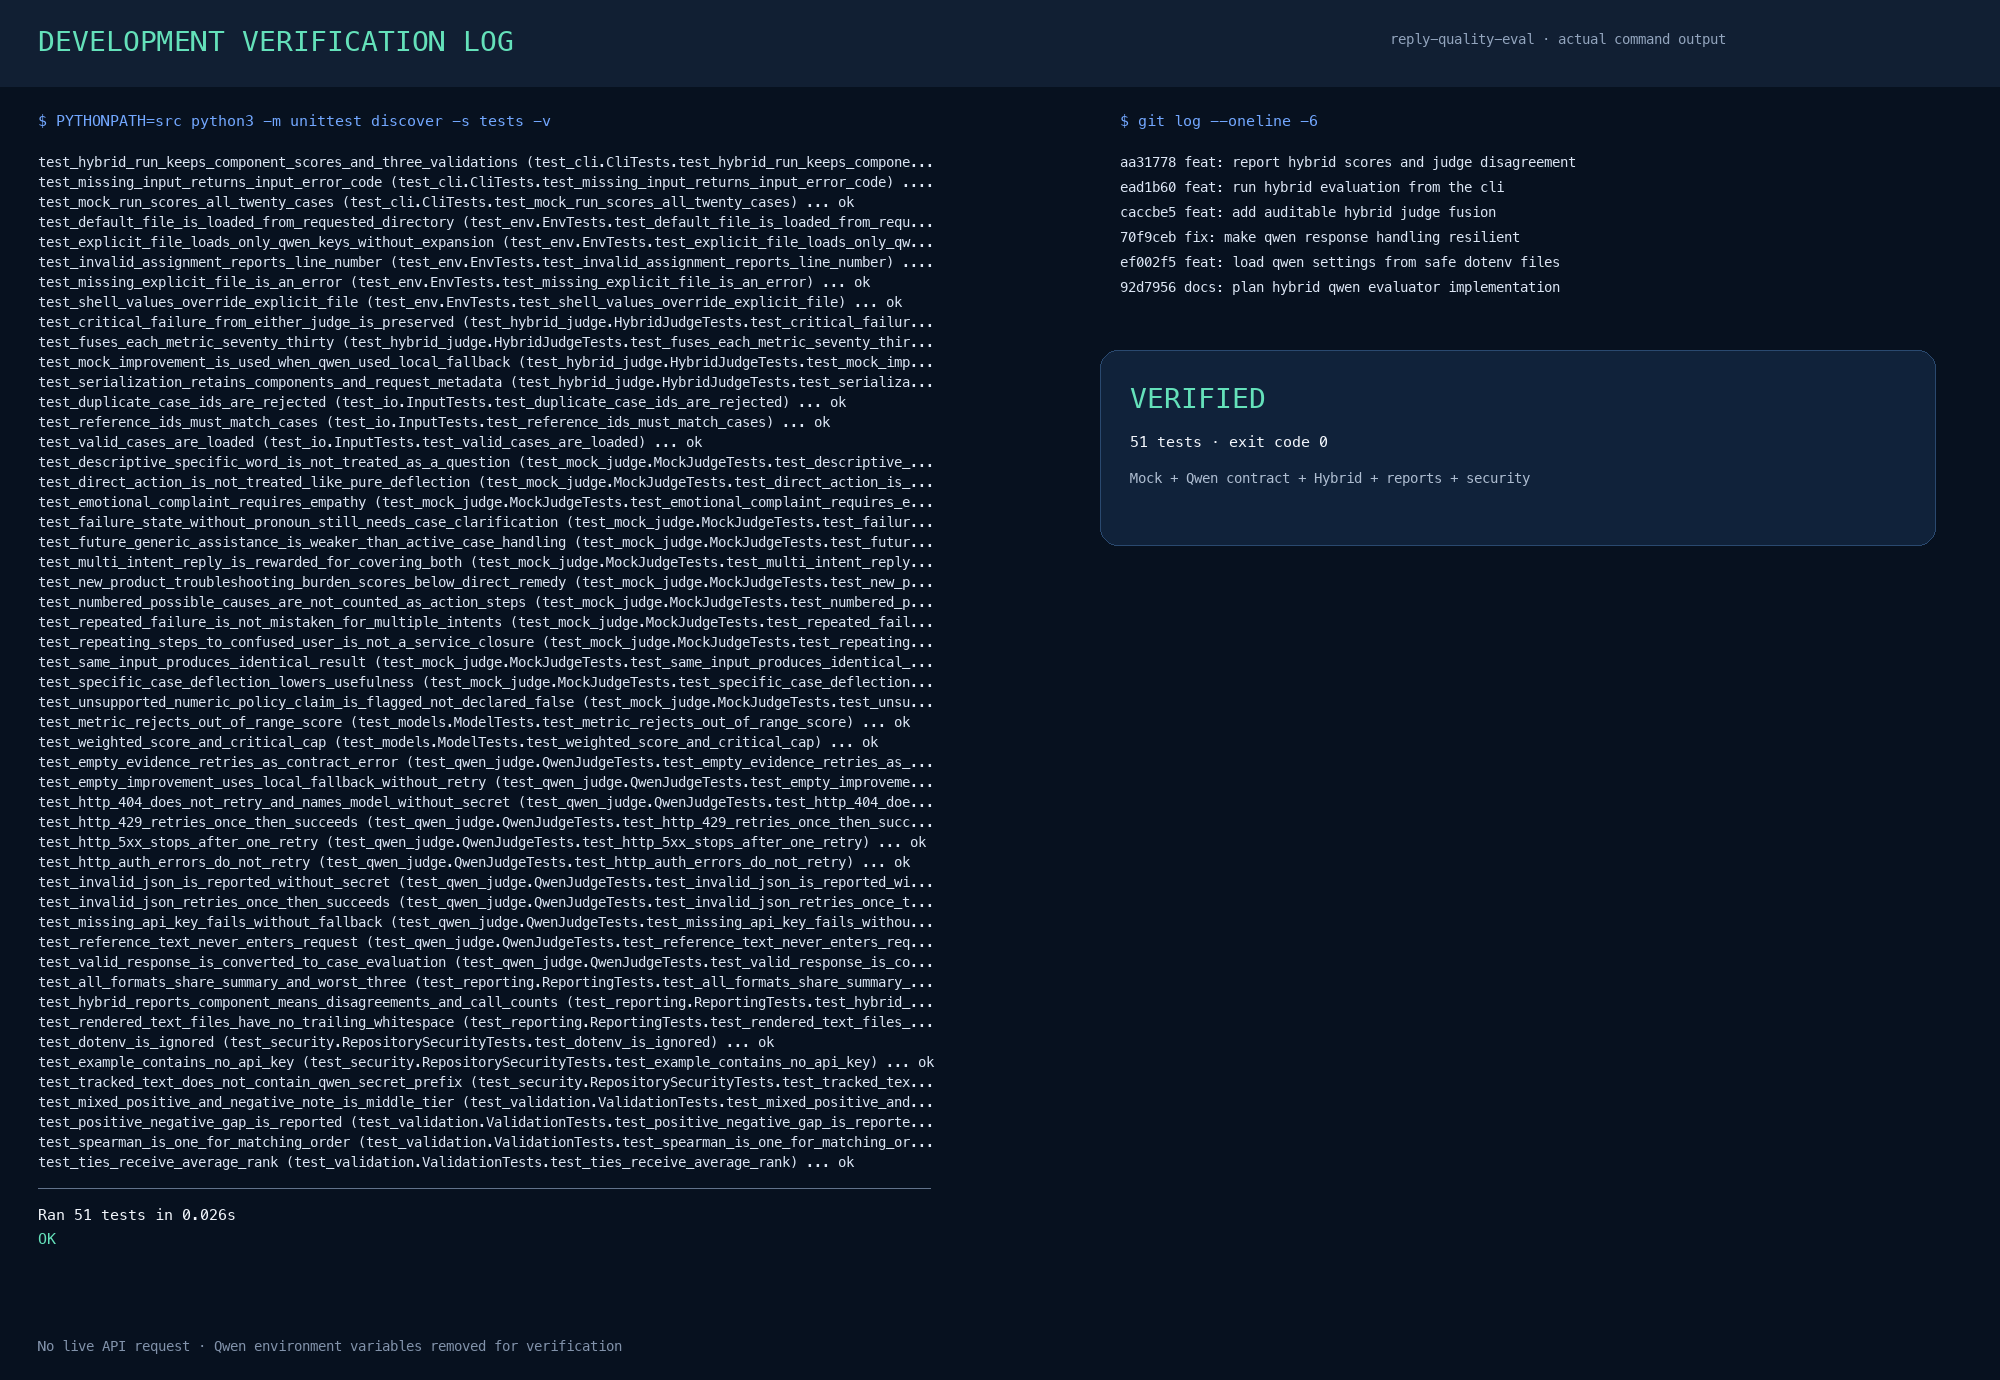
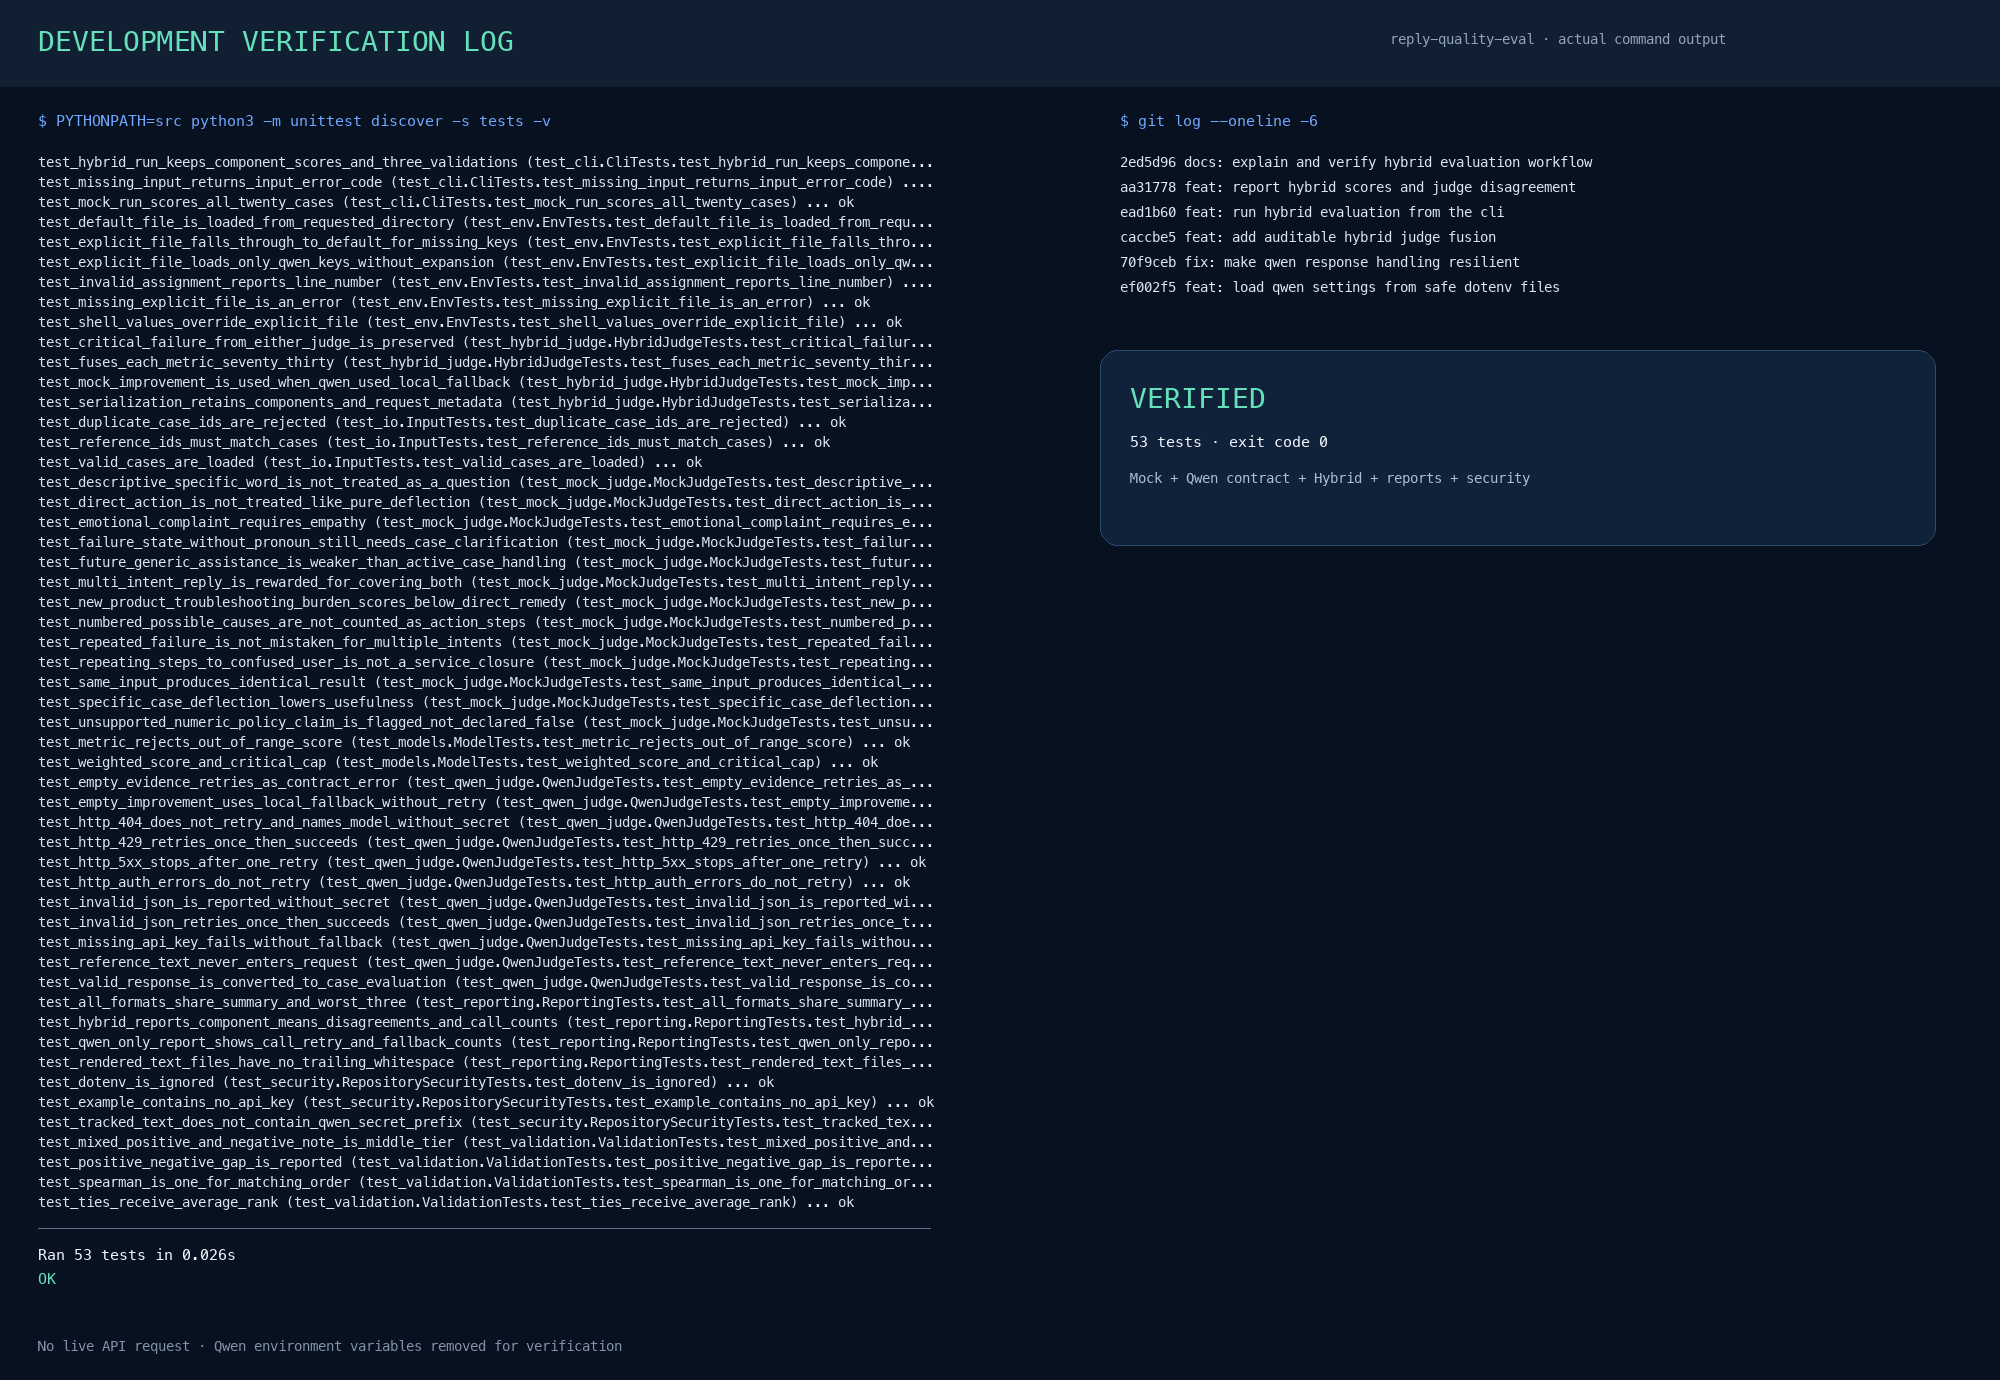
fix: close hybrid evaluation audit gaps

Changed region(s): [[0.0, 0.1558, 0.465, 0.9036], [0.558, 0.0935, 0.775, 0.2181]]

diff --git a/src/reply_eval/reporting.py b/src/reply_eval/reporting.py
@@ -137,6 +137,29 @@ def build_summary(cases: list[dict[str, Any]]) -> dict[str, Any]:
             bool(case.get("local_improvement_fallback", False))
             for case in hybrid_cases
         )
+    else:
+        qwen_cases = [
+            case
+            for case in cases
+            if case.get("evaluator", {}).get("mode") == "qwen"
+        ]
+        if qwen_cases:
+            summary["request_count"] = sum(
+                int(case["evaluator"].get("request_count", 0))
+                for case in qwen_cases
+            )
+            summary["retry_count"] = sum(
+                int(case["evaluator"].get("retry_count", 0))
+                for case in qwen_cases
+            )
+            summary["local_improvement_fallback_count"] = sum(
+                bool(
+                    case["evaluator"].get(
+                        "local_improvement_fallback", False
+                    )
+                )
+                for case in qwen_cases
+            )
     return summary
 
 
@@ -202,6 +225,17 @@ def _markdown_report(payload: dict[str, Any]) -> str:
             lines.append(
                 f"- {item['id']}：最大指标差 {item['max_difference']:.2f} 分"
             )
+    elif "request_count" in summary:
+        lines.extend(
+            [
+                "",
+                "## Qwen 调用审计",
+                "",
+                f"- 请求次数：{summary['request_count']}",
+                f"- 格式/服务重试次数：{summary['retry_count']}",
+                f"- 本地建议降级次数：{summary['local_improvement_fallback_count']}",
+            ]
+        )
     lines.extend(["", "## 最差 3 条", ""])
     for rank, case_id in enumerate(summary["worst_three"], start=1):
         case = by_id[case_id]
@@ -322,12 +356,41 @@ def _html_report(payload: dict[str, Any]) -> str:
 <section class="section overview"><div class="panel"><div class="section-title"><h2>Mock / Qwen / Hybrid</h2><p>组件诊断分</p></div><table>{component_rows}</table></div>
 <div class="panel"><div class="section-title"><h2>最大分歧</h2><p>优先人工复核</p></div><table>{disagreement_rows}</table>
 <p class="audit">请求 {summary['request_count']} · 重试 {summary['retry_count']} · 本地建议降级 {summary['local_improvement_fallback_count']}</p></div></section>"""
+    elif "request_count" in summary:
+        component_html = f"""
+<section class="section"><div class="panel"><div class="section-title"><h2>Qwen 调用审计</h2><p>请求与本地降级</p></div>
+<div class="stats"><div class="stat"><b>{summary['request_count']}</b><span>请求</span></div><div class="stat"><b>{summary['retry_count']}</b><span>重试</span></div><div class="stat"><b>{summary['local_improvement_fallback_count']}</b><span>本地建议降级</span></div></div></div></section>"""
     validation = payload.get("validation", {})
     displayed_validation = (
         validation.get("hybrid", {})
         if isinstance(validation, dict) and "hybrid" in validation
         else validation
     )
+    validation_comparison_html = ""
+    if isinstance(validation, dict) and all(
+        mode in validation for mode in ("mock", "qwen", "hybrid")
+    ):
+        comparison_rows: list[str] = []
+        for mode in ("mock", "qwen", "hybrid"):
+            item = validation[mode]
+            item_match_rate = item.get("issue_tag_match_rate")
+            item_match_text = (
+                f"{item_match_rate:.1%}"
+                if isinstance(item_match_rate, (int, float))
+                else "N/A"
+            )
+            comparison_rows.append(
+                "<tr>"
+                f"<td>{mode.title()}</td>"
+                f"<td>{item.get('spearman_correlation')}</td>"
+                f"<td>{item.get('positive_negative_gap')}</td>"
+                f"<td>{item_match_text}</td>"
+                "</tr>"
+            )
+        validation_rows = "".join(comparison_rows)
+        validation_comparison_html = f"""
+<section class="section"><div class="panel"><div class="section-title"><h2>三路人工参考验证</h2><p>仅验证，不参与评分</p></div>
+<table><tr><td>评估器</td><td>Spearman</td><td>正负档差</td><td>标签匹配率</td></tr>{validation_rows}</table></div></section>"""
     correlation = displayed_validation.get("spearman_correlation", "N/A")
     gap = displayed_validation.get("positive_negative_gap", "N/A")
     match_rate = displayed_validation.get("issue_tag_match_rate")
@@ -351,6 +414,7 @@ def _html_report(payload: dict[str, Any]) -> str:
 <section class="hero"><div><div class="eyebrow">QUALITY EVALUATION · {mode}</div><h1>客服自动回复质量评估</h1><p>{summary['case_count']} 条回复的可解释离线评估。分数衡量意图、服务闭环、事实依据、语气与清晰度；无证据的声明被标为待核实，不直接视为错误。</p></div><div class="score"><strong>{summary['overall_mean']:.1f}</strong><span>OVERALL / 100</span></div></section>
 <section class="section"><div class="section-title"><h2>指标表现</h2><p>均分 · 权重 · 样本范围</p></div><div class="metrics">{''.join(metric_cards)}</div></section>
 {component_html}
+{validation_comparison_html}
 <section class="section overview"><div class="panel"><div class="section-title"><h2>验证摘要</h2></div><div class="stats"><div class="stat"><b>{correlation}</b><span>Spearman 相关</span></div><div class="stat"><b>{gap}</b><span>正负档均分差</span></div><div class="stat"><b>{match_text}</b><span>问题标签匹配率</span></div></div></div><div class="panel"><div class="section-title"><h2>高频风险</h2></div><table>{risk_rows}</table></div></section>
 <section class="section"><div class="section-title"><h2>最差 3 条</h2><p>按综合分升序，同分按 ID</p></div>{''.join(worst_cards)}</section>
 <p class="foot">报告中 unsupported_claim 仅表示当前输入无法验证，需要商品库、订单系统或政策知识库核实。本报告不将人工参考答案用于单条评分。</p>

diff --git a/tests/test_reporting.py b/tests/test_reporting.py
@@ -157,12 +157,16 @@ class ReportingTests(unittest.TestCase):
         validation = {
             mode: {
                 "sample_size": 3,
-                "spearman_correlation": 0.5,
+                "spearman_correlation": correlation,
                 "positive_negative_gap": 10.0,
                 "issue_tag_match_rate": 0.5,
                 "disagreements": [],
             }
-            for mode in ("mock", "qwen", "hybrid")
+            for mode, correlation in (
+                ("mock", 0.1),
+                ("qwen", 0.2),
+                ("hybrid", 0.3),
+            )
         }
         result = RunResult(
             metadata={"judge_mode": "hybrid", "qwen_model": "qwen-test"},
@@ -190,8 +194,63 @@ class ReportingTests(unittest.TestCase):
         self.assertEqual(summary["local_improvement_fallback_count"], 1)
         self.assertIn("Mock / Qwen / Hybrid", markdown)
         self.assertIn("最大分歧", html)
+        self.assertIn("三路人工参考验证", html)
+        self.assertIn("0.1", html)
+        self.assertIn("0.2", html)
+        self.assertIn("0.3", html)
         self.assertIn("mock_overall_score", csv_rows[0])
         self.assertIn("qwen_overall_score", csv_rows[0])
+
+    def test_qwen_only_report_shows_call_retry_and_fallback_counts(self):
+        names = [
+            "intent_accuracy",
+            "usefulness",
+            "groundedness",
+            "tone",
+            "clarity",
+        ]
+        case = {
+            "id": "case_01",
+            "overall_score": 75,
+            "user_question": "q",
+            "auto_reply": "a",
+            "metrics": {
+                name: {"score": 75, "reason": "r", "evidence": ["e"]}
+                for name in names
+            },
+            "risk_tags": [],
+            "critical_fail": False,
+            "critical_reason": None,
+            "improvement": "local fallback",
+            "evaluator": {
+                "mode": "qwen",
+                "model": "qwen-test",
+                "version": "test-1",
+                "request_count": 2,
+                "retry_count": 1,
+                "local_improvement_fallback": True,
+            },
+        }
+        result = RunResult(
+            metadata={"judge_mode": "qwen", "qwen_model": "qwen-test"},
+            summary={},
+            validation={},
+            cases=[case],
+        )
+
+        with tempfile.TemporaryDirectory() as directory:
+            paths = write_reports(result, Path(directory))
+            payload = json.loads(paths["json"].read_text(encoding="utf-8"))
+            markdown = paths["markdown"].read_text(encoding="utf-8")
+            html = paths["html"].read_text(encoding="utf-8")
+
+        self.assertEqual(payload["summary"]["request_count"], 2)
+        self.assertEqual(payload["summary"]["retry_count"], 1)
+        self.assertEqual(
+            payload["summary"]["local_improvement_fallback_count"], 1
+        )
+        self.assertIn("Qwen 调用审计", markdown)
+        self.assertIn("Qwen 调用审计", html)
 
 
 if __name__ == "__main__":

diff --git a/src/reply_eval/env.py b/src/reply_eval/env.py
@@ -18,27 +18,44 @@ def load_qwen_env(
 ) -> Path | None:
     """Load missing Qwen variables from a dotenv file without evaluation."""
 
-    candidate = explicit_path or (cwd or Path.cwd()) / ".env"
-    if not candidate.exists():
-        if explicit_path is not None:
-            raise EnvFileError(f"env file not found: {candidate}")
+    default_path = (cwd or Path.cwd()) / ".env"
+    if explicit_path is not None and not explicit_path.exists():
+        raise EnvFileError(f"env file not found: {explicit_path}")
+
+    candidates: list[Path] = []
+    if explicit_path is not None:
+        candidates.append(explicit_path)
+    if default_path.exists() and all(
+        default_path.absolute() != path.absolute() for path in candidates
+    ):
+        candidates.append(default_path)
+    if not candidates:
         return None
-    try:
-        lines = candidate.read_text(encoding="utf-8").splitlines()
-    except OSError as exc:
-        raise EnvFileError(f"cannot read env file {candidate}: {exc}") from exc
-    for line_number, raw_line in enumerate(lines, start=1):
-        line = raw_line.strip()
-        if not line or line.startswith("#"):
-            continue
-        if "=" not in line:
+
+    for candidate in candidates:
+        try:
+            lines = candidate.read_text(encoding="utf-8").splitlines()
+        except OSError as exc:
             raise EnvFileError(
-                f"invalid env line {line_number} in {candidate}: expected KEY=value"
-            )
-        key, value = (part.strip() for part in line.split("=", 1))
-        if key not in ALLOWED_QWEN_KEYS:
-            continue
-        if len(value) >= 2 and value[0] == value[-1] and value[0] in "\"'":
-            value = value[1:-1]
-        os.environ.setdefault(key, value)
-    return candidate
+                f"cannot read env file {candidate}: {exc}"
+            ) from exc
+        for line_number, raw_line in enumerate(lines, start=1):
+            line = raw_line.strip()
+            if not line or line.startswith("#"):
+                continue
+            if "=" not in line:
+                raise EnvFileError(
+                    f"invalid env line {line_number} in {candidate}: "
+                    "expected KEY=value"
+                )
+            key, value = (part.strip() for part in line.split("=", 1))
+            if key not in ALLOWED_QWEN_KEYS:
+                continue
+            if (
+                len(value) >= 2
+                and value[0] == value[-1]
+                and value[0] in "\"'"
+            ):
+                value = value[1:-1]
+            os.environ.setdefault(key, value)
+    return explicit_path or default_path

diff --git a/tests/test_env.py b/tests/test_env.py
@@ -8,10 +8,10 @@ from reply_eval.env import EnvFileError, load_qwen_env
 
 
 class EnvTests(unittest.TestCase):
-    def write_env(self, content: str) -> Path:
+    def write_env(self, content: str, filename: str = ".env") -> Path:
         directory = tempfile.TemporaryDirectory()
         self.addCleanup(directory.cleanup)
-        path = Path(directory.name) / ".env"
+        path = Path(directory.name) / filename
         path.write_text(content, encoding="utf-8")
         return path
 
@@ -44,6 +44,25 @@ class EnvTests(unittest.TestCase):
             load_qwen_env(path, path.parent)
             self.assertEqual(os.environ["QWEN_API_KEY"], "shell-key")
             self.assertEqual(os.environ["QWEN_MODEL"], "shell-model")
+
+    def test_explicit_file_falls_through_to_default_for_missing_keys(self):
+        explicit = self.write_env(
+            "QWEN_MODEL=explicit-model\n", filename="custom.env"
+        )
+        default = self.write_env(
+            "QWEN_MODEL=default-model\n"
+            "QWEN_BASE_URL=https://default.test/v1\n"
+        )
+        with patch.dict(
+            os.environ, {"QWEN_API_KEY": "shell-key"}, clear=True
+        ):
+            loaded = load_qwen_env(explicit, default.parent)
+            self.assertEqual(loaded, explicit)
+            self.assertEqual(os.environ["QWEN_API_KEY"], "shell-key")
+            self.assertEqual(os.environ["QWEN_MODEL"], "explicit-model")
+            self.assertEqual(
+                os.environ["QWEN_BASE_URL"], "https://default.test/v1"
+            )
 
     def test_default_file_is_loaded_from_requested_directory(self):
         path = self.write_env("QWEN_API_KEY=default-key\n")

diff --git a/README.md b/README.md
@@ -33,10 +33,9 @@ PYTHONPATH=src python3 -m unittest discover -s tests -v
 
 ### 2. 配置 Qwen
 
-Qwen 密钥只放在项目根目录的 `.env`，该文件已被 Git 忽略：
+Qwen 密钥只放在项目根目录的 `.env`，该文件已被 Git 忽略。在项目根目录执行：
 
 ```bash
-cd /Users/zx/Desktop/晓多科技
 cp .env.example .env
 ```
 
